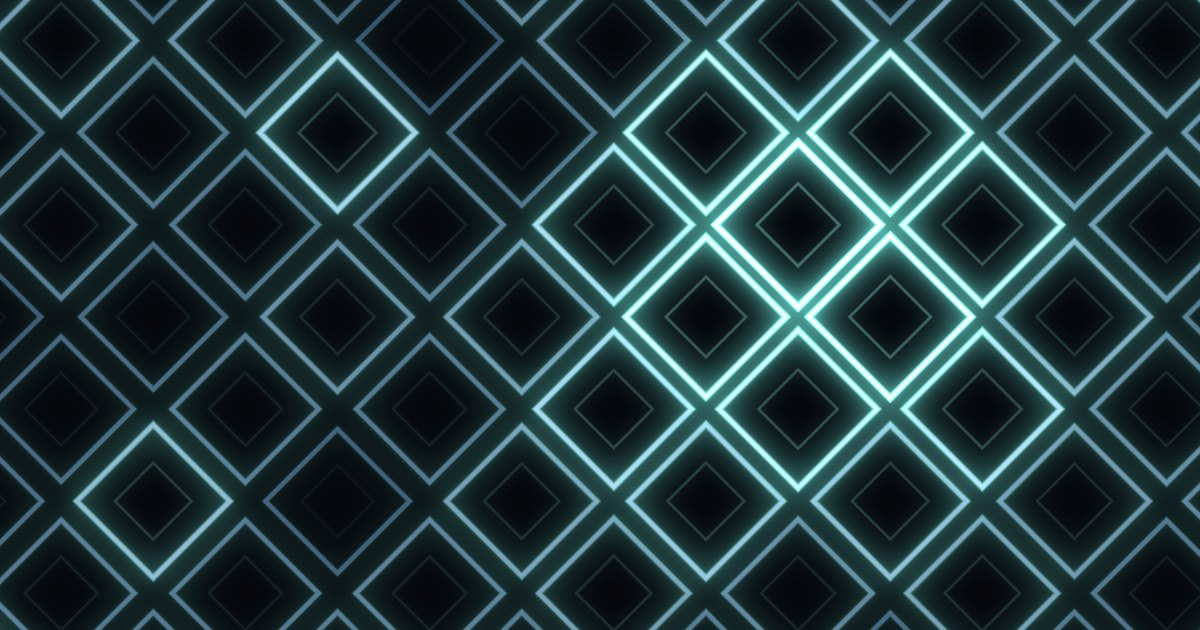
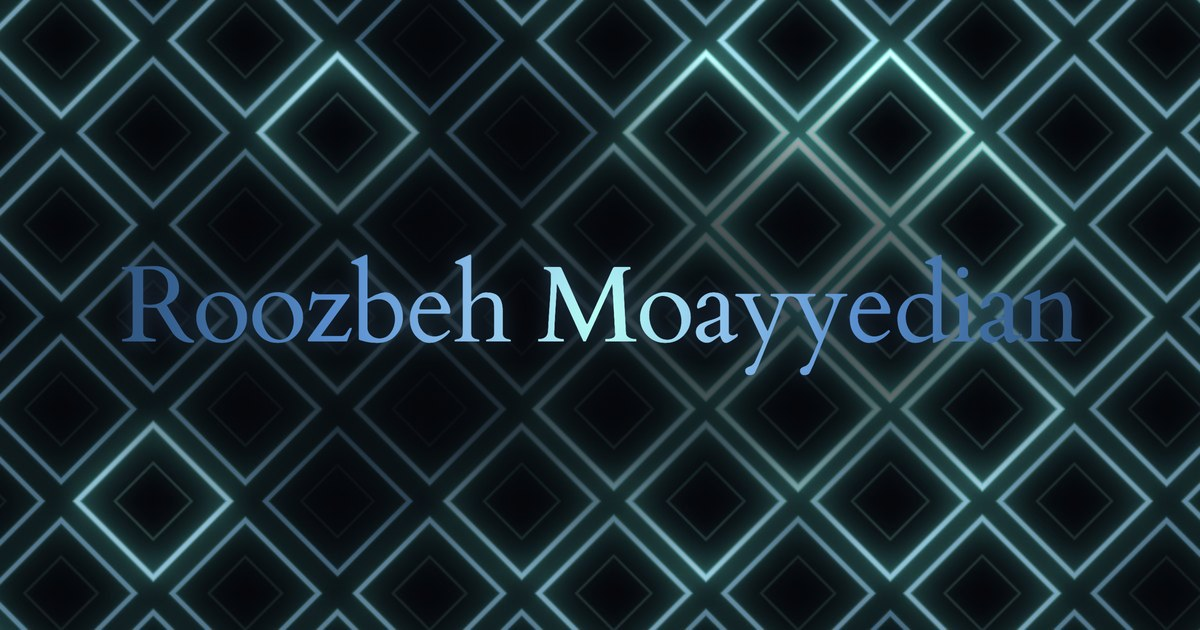
Put the name on the link preview image
The preview still now carries "Roozbeh Moayyedian" in the footer's
Cardo lettering and cyan-to-steel-blue colours, centred over the
glowing lattice with a soft dark band behind it so it reads.

Changed region(s): [[0.0308, 0.1206, 0.9558, 0.8746]]

diff --git a/index.html b/index.html
@@ -13,7 +13,7 @@
 	<meta property="og:image" content="https://roozbehmd.github.io/Portfolio/assets/img/og-image.jpg">
 	<meta property="og:image:width" content="1200">
 	<meta property="og:image:height" content="630">
-	<meta property="og:image:alt" content="A dark grid of diamonds glowing cyan, the animated background of the site">
+	<meta property="og:image:alt" content="Roozbeh Moayyedian in blue metallic lettering over a grid of glowing cyan diamonds">
 	<meta name="twitter:card" content="summary_large_image">
 	<meta name="twitter:image" content="https://roozbehmd.github.io/Portfolio/assets/img/og-image.jpg">
 
